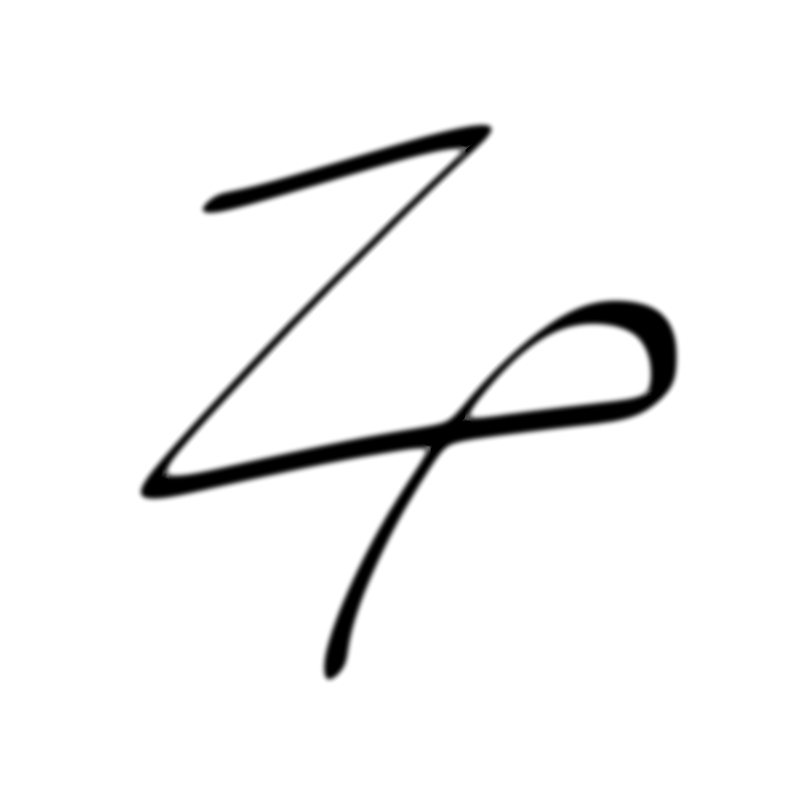
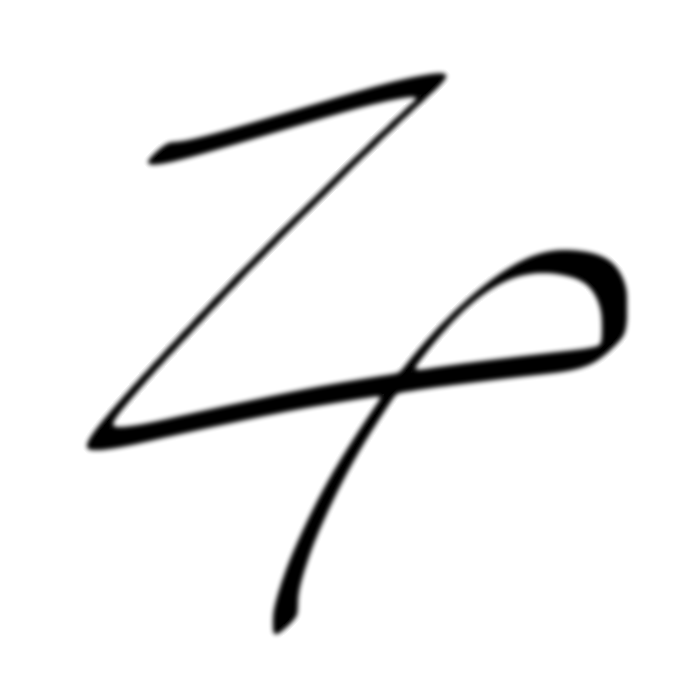
fixed zp.png, disabled mobile about link

Changed region(s): [[0.12, 0.09, 0.9, 0.93]]

diff --git a/9-main2point0/index.html b/9-main2point0/index.html
@@ -6,7 +6,7 @@
     <meta name="viewport" content="width=device-width, initial-scale=1">
     <meta name="description" content="">
     <meta name="author" content="">
-    <link rel="shortcut icon" href="public/images/zp1.png">
+    <link rel="shortcut icon" href="public/images/zp.png">
     <title>Weekly Website 2.0</title>
 
 
@@ -24,7 +24,7 @@
         <div class="container">
             <div class="row">
                 <div class="col-md-4 visible-md visible-lg">
-                    <a href="http://zachpflederer.com/about">
+                    <a href="#">
                         <h2>Weekly Website</h2>
                     </a>
                 </div>
